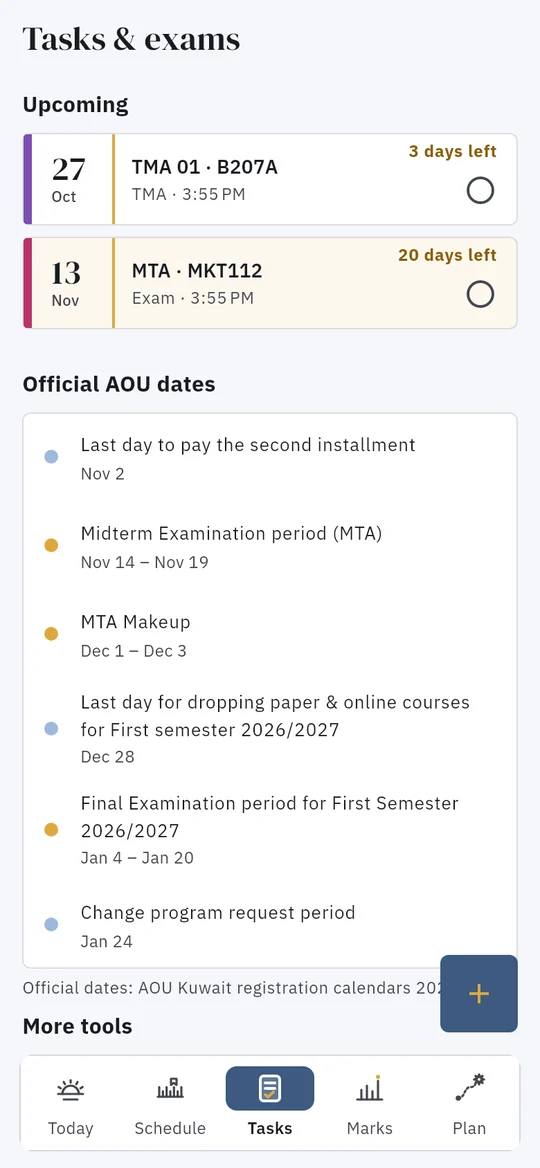
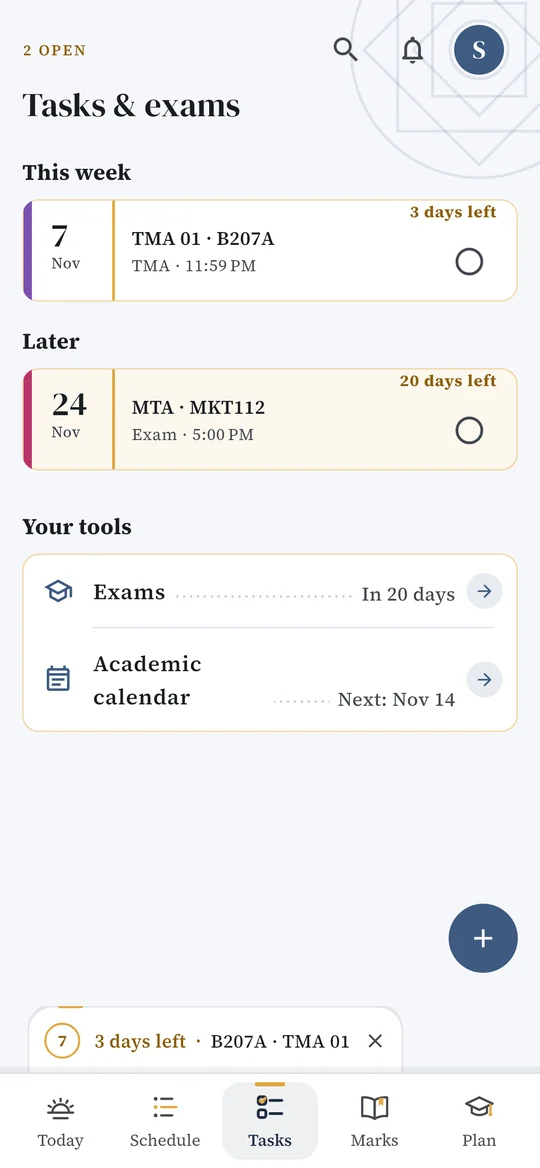
Add files via upload

diff --git a/index.html b/index.html
@@ -93,7 +93,7 @@ footer p{margin:0}
       <div>
         <h1>اعرف متى تتخرّج، <em>وشنو تسجّل</em> كل فصل.</h1>
         <svg class="ruler" viewBox="0 0 120 14" aria-hidden="true"><path d="M1 12H119" stroke="rgba(255,255,255,.35)" stroke-width="3" stroke-linecap="round"/><path d="M80 12H119" stroke="#E0A83F" stroke-width="3" stroke-linecap="round"/><g stroke="rgba(255,255,255,.6)"><path d="M1 10V1M18 10V6M35 10V4M52 10V6M69 10V1M86 10V6M103 10V4M119 10V1"/></g></svg>
-        <p>ارفع ملف سجلك من نظام الجامعة، وفصلي يرتّب لك المواد فصلاً بفصل حسب المتطلبات وحدود الساعات، لين التخرّج. ومعه يومك وجدولك ومهامك ودرجاتك في مكان واحد. مصمّم لطلاب الجامعات في الكويت والسعودية والأردن وعُمان والبحرين ولبنان ومصر.</p>
+        <p>أضف ملف سجلك من نظام الجامعة، وفصلي يقرأه على جوالك ويرتّب لك المواد فصلاً بفصل حسب المتطلبات وحدود الوحدات، لين التخرّج. ومعه يومك وجدولك ومهامك ودرجاتك في مكان واحد. مصمّم لطلاب الجامعات في الكويت والسعودية والأردن وعُمان والبحرين ولبنان ومصر.</p>
         <div class="cta">
           <a class="btn btn-gold" href="#join">انضم لتجربة التطبيق</a>
           <a class="btn btn-ghost" href="#features">شنو يسوي فصلي؟</a>
@@ -113,7 +113,7 @@ footer p{margin:0}
     <div class="tabs" tabindex="0" role="region" aria-label="شاشات فصلي">
       <figure><img class="shot" src="img/ar_1_today.webp" width="540" height="1168" loading="lazy" alt="شاشة اليوم"><figcaption><b>اليوم</b><span>المحاضرة القادمة، وهل حضرت؟، والمواعيد القريبة</span></figcaption></figure>
       <figure><img class="shot" src="img/ar_2_schedule.webp" width="540" height="1168" loading="lazy" alt="شاشة الجدول"><figcaption><b>الجدول</b><span>يومك وأسبوعك، وجدول رمضان</span></figcaption></figure>
-      <figure><img class="shot" src="img/ar_5_tasks.webp" width="540" height="1168" loading="lazy" alt="شاشة المهام والاختبارات"><figcaption><b>المهام</b><span>الواجبات والاختبارات ومواعيد الجامعة الرسمية</span></figcaption></figure>
+      <figure><img class="shot" src="img/ar_5_tasks.webp" width="540" height="1168" loading="lazy" alt="شاشة المهام والاختبارات"><figcaption><b>المهام</b><span>واجباتك واختباراتك، وكم يوم باقي</span></figcaption></figure>
       <figure><img class="shot" src="img/ar_4_marks.webp" width="540" height="1168" loading="lazy" alt="شاشة الدرجات"><figcaption><b>الدرجات</b><span>المعدل المتوقع، والمواد، والحضور والتركيز</span></figcaption></figure>
       <figure><img class="shot" src="img/ar_3_plan.webp" width="540" height="1168" loading="lazy" alt="شاشة الخطة"><figcaption><b>الخطة</b><span>هل أنت على المسار الصحيح؟ وشنو تسجّل بعدين</span></figcaption></figure>
     </div>
@@ -125,8 +125,8 @@ footer p{margin:0}
     <h2>ثلاث خطوات</h2>
     <p class="lead">تقدر تبدأ بدون ملفات وتدخّل موادك بيدك، بس الملف أسرع وأدق.</p>
     <ol class="steps">
-      <li><div><b>ارفع ملف سجلك (PDF)</b><br>من نظام الجامعة. ما نطلب كلمة السر حقك أبداً.</div></li>
-      <li><div><b>شوف وين وصلت</b><br>الساعات المنجزة، المواد الباقية، ومعدلك.</div></li>
+      <li><div><b>أضف ملف سجلك (PDF)</b><br>من نظام الجامعة، ويُقرأ على جوالك. ما نطلب كلمة السر حقك أبداً.</div></li>
+      <li><div><b>شوف وين وصلت</b><br>الوحدات المنجزة، المواد الباقية، ومعدلك.</div></li>
       <li><div><b>خذ خطة التخرّج</b><br>المسار الأسرع أو المتوازن أو الأخف، فصلاً بفصل، مع البدائل.</div></li>
     </ol>
   </div>
@@ -137,18 +137,19 @@ footer p{margin:0}
     <h2>شنو يسوي فصلي؟</h2>
     <p class="lead">كل الأدوات مجانية عند الإطلاق.</p>
     <div class="grid">
-      <div class="card"><h3>خطة التخرّج</h3><p>كل الفصول لين التخرّج، مع المتطلبات السابقة وحدود الساعات. ثلاث مسارات: الأسرع والمتوازن والأخف. احفظ لين ٣ خطط وقارن بينها، وشوفها حتى بدون إنترنت.</p></div>
-      <div class="card new"><span class="tag">جديد</span><h3>يومك في مسار واحد</h3><p>شاشة اليوم تبيّن المحاضرة القادمة وكم باقي عليها، وتسألك بعد المحاضرة: حضرت أو غبت؟ عشان يبقى عدّاد الغياب صحيح.</p></div>
-      <div class="card new"><span class="tag">جديد</span><h3>دفتر المهام</h3><p>كل واجب واختبار مع كم يوم باقي، وعلّمه «تم» بلمسة لما تخلّص. ومعه مواعيد الجامعة الرسمية: الأقساط والسحب والاختبارات.</p></div>
+      <div class="card"><h3>خطة التخرّج</h3><p>كل الفصول لين التخرّج، مع المتطلبات السابقة وحدود الوحدات. ثلاث مسارات: الأسرع والمتوازن والأخف. احفظ لين 3 خطط وقارن بينها، وشوفها حتى بدون إنترنت.</p></div>
+      <div class="card new"><span class="tag">جديد</span><h3>يومك في مسار واحد</h3><p>شاشة اليوم تبدأ بوقت محاضرتك القادمة بخط كبير، ومكانها ومدتها وغيابك وأقرب تسليم لها. وبالليل تعرض لك بكرة.</p></div>
+      <div class="card new"><span class="tag">جديد</span><h3>اسأل فيصل</h3><p>تحت خطتك وموعد تخرّجك، اضغط «اسأل فيصل ليش؟» وتوصلك شرح قصير بكلام بسيط.</p></div>
+      <div class="card"><h3>دفتر المهام</h3><p>كل واجب واختبار مع كم يوم باقي، وعلّمه «تم» بلمسة لما تخلّص. ومواعيد الجامعة الرسمية في التقويم: الأقساط والسحب والاختبارات.</p></div>
       <div class="card"><h3>استيراد بدل الكتابة</h3><p>ارفع كشف الدرجات أو نموذج التسجيل أو صورة الجدول أو خطة المادة (السيلابس)، وفصلي يقرأها وتراجعها قبل الحفظ.</p></div>
       <div class="card"><h3>كم تحتاج في الفاينل؟</h3><p>دخّل درجات الـTMA والـMTA وشوف الدرجة المطلوبة لكل تقدير، مع تنبيه إذا المادة في خطر قبل آخر يوم للسحب.</p></div>
-      <div class="card"><h3>المعدل ووضعك الأكاديمي</h3><p>حاسبة معدل مع هدف، ووضعك من الإنذارات الأكاديمية وكيف ترجع فوق ٢.٠٠، ومرتبة التخرّج ومنح التفوق.</p></div>
+      <div class="card"><h3>المعدل ووضعك الأكاديمي</h3><p>حاسبة معدل مع هدف، ووضعك من الإنذارات الأكاديمية وكيف ترجع فوق 2.00، ومرتبة التخرّج ومنح التفوق.</p></div>
       <div class="card"><h3>يوم الاختبار</h3><p>عدّ تنازلي، وقائمة باللي تحتاجه، وقاعدة التأخر عن الدخول. وإذا فاتك اختبار، يقولك شنو تسوي وآخر موعد للعذر، وكيف تتظلم على درجة.</p></div>
       <div class="card"><h3>مراجعة النهائيات</h3><p>اختار النهائيات اللي تبي لها خطة، وفصلي يقترح ساعات المذاكرة قبل كل اختبار. ما يجدول شي إلا إذا وافقت.</p></div>
       <div class="card"><h3>مؤقت التركيز</h3><p>جلسات مذاكرة بمؤقت، وسجل أسبوعي لساعات تركيزك لكل مادة.</p></div>
       <div class="card"><h3>تذكيرات على كيفك</h3><p>قبل المحاضرة ومواعيد التسليم والاختبارات، مع ساعات هدوء وجدول رمضان، وملخص أسبوعي صباح كل أحد.</p></div>
-      <div class="card"><h3>شكله على ذوقك</h3><p>فاتح أو داكن أو حسب الجوال، وأربعة ألوان. وتقدر تخفي أو ترتّب بطاقات شاشة اليوم.</p></div>
-      <div class="card"><h3>بياناتك عندك</h3><p>تشتغل بدون حساب، وبياناتك على جوالك. احفظ نسخة احتياطية في ملف وحدة، وأرجعها متى ما تبي.</p></div>
+      <div class="card"><h3>شكله على ذوقك</h3><p>فاتح أو داكن أو حسب الجوال، وخمسة ألوان للتطبيق كله. وتقدر تخفي أو ترتّب بطاقات شاشة اليوم.</p></div>
+      <div class="card"><h3>بياناتك عندك</h3><p>تشتغل بدون حساب، وبياناتك على جوالك. احفظ نسخة احتياطية في ملف واحد، وأرجعها متى ما تبي.</p></div>
     </div>
     <p style="color:var(--muted);margin:20px 0 0">عربي وإنجليزي، على الجوال والتابلت. وأدوات ثانية: تقرير تقدّم PDF، مواد من جامعة ثانية، قبل لا تسحب مادة، والتقويم الأكاديمي.</p>
   </div>
@@ -161,7 +162,7 @@ footer p{margin:0}
       <p>نبحث عن طلاب يجرّبون فصلي قبل نشره على Google Play. التجربة مجانية وتطوعية.</p>
       <ul>
         <li>هاتف أندرويد وبريد Gmail</li>
-        <li>تبقي التطبيق مثبتاً ١٤ يوماً (ما يلزم تستخدمه كل يوم)</li>
+        <li>تبقي التطبيق مثبتاً 14 يوماً (ما يلزم تستخدمه كل يوم)</li>
       </ul>
       <div class="cta"><a class="btn btn-gold" href="mailto:fasli.planner@gmail.com?subject=%D8%A3%D8%A8%D9%8A%20%D8%A3%D8%AC%D8%B1%D8%A8%20%D9%81%D8%B5%D9%84%D9%8A%20%2F%20Join%20the%20Fasli%20test&amp;body=Gmail%3A%20%0A%D9%86%D9%88%D8%B9%20%D8%A7%D9%84%D9%87%D8%A7%D8%AA%D9%81%20%2F%20Phone%3A%20%0A">راسلنا للانضمام</a><span class="small">أو أرسل بريد Gmail حقك إلى fasli.planner@gmail.com</span></div>
     </div>
@@ -171,23 +172,24 @@ footer p{margin:0}
 <section class="en" id="en" lang="en">
   <div class="in">
     <h2>Fasli – Uni Planner</h2>
-    <p><b>Know when you'll graduate, and what to register every semester.</b> Upload your record PDF from the university system and Fasli builds your route semester by semester, checking prerequisites and credit limits all the way to graduation. Your day, timetable, tasks and marks sit alongside it. Made for university students in Kuwait, Saudi Arabia, Jordan, Oman, Bahrain, Lebanon and Egypt.</p>
+    <p><b>Know when you'll graduate, and what to register every semester.</b> Add your record PDF from the university system: Fasli reads it on your phone and builds your route semester by semester, checking prerequisites and credit limits all the way to graduation. Your day, timetable, tasks and marks sit alongside it. Made for university students in Kuwait, Saudi Arabia, Jordan, Oman, Bahrain, Lebanon and Egypt.</p>
     <div class="tabs" tabindex="0" role="region" aria-label="Fasli screens">
       <figure><img class="shot" src="img/en_1_today.webp" width="540" height="1168" loading="lazy" alt="Today screen"><figcaption><b>Today</b><span>Next lecture, did you make it, what's coming up</span></figcaption></figure>
       <figure><img class="shot" src="img/en_2_schedule.webp" width="540" height="1168" loading="lazy" alt="Schedule screen"><figcaption><b>Schedule</b><span>Your day and week, plus Ramadan times</span></figcaption></figure>
-      <figure><img class="shot" src="img/en_5_tasks.webp" width="540" height="1168" loading="lazy" alt="Tasks screen"><figcaption><b>Tasks</b><span>TMAs, exams and official university dates</span></figcaption></figure>
+      <figure><img class="shot" src="img/en_5_tasks.webp" width="540" height="1168" loading="lazy" alt="Tasks screen"><figcaption><b>Tasks</b><span>Your TMAs and exams, with days left</span></figcaption></figure>
       <figure><img class="shot" src="img/en_4_marks.webp" width="540" height="1168" loading="lazy" alt="Marks screen"><figcaption><b>Marks</b><span>Projected GPA, courses, attendance, focus</span></figcaption></figure>
       <figure><img class="shot" src="img/en_3_plan.webp" width="540" height="1168" loading="lazy" alt="Plan screen"><figcaption><b>Plan</b><span>Am I on track, and what to take next</span></figcaption></figure>
     </div>
     <ul>
       <li>Graduation plan with fastest, balanced and lightest routes; save and compare up to 3, readable offline</li>
-      <li>Today: your next lecture with a countdown, and a quick "did you make it?" after class to keep absences right</li>
+      <li>Today: your next class time first, with where it is, how long it runs, your absences and what's due; in the evening it shows tomorrow</li>
+      <li>Ask Faisal: a short, plain explanation of your plan and graduation estimate</li>
       <li>A task ledger for TMAs and exams with days left, plus official university dates</li>
       <li>Import your transcript, registration form, a timetable screenshot or a course syllabus instead of typing</li>
       <li>Final-mark calculator (TMA + MTA), at-risk warnings before the drop deadline, GPA goal and academic standing</li>
       <li>Exam day help, missed-exam and appeal steps, an opt-in finals revision plan and a focus timer</li>
       <li>Reminders with quiet hours, Ramadan timetable and a Sunday weekly brief</li>
-      <li>Light, dark or follow the phone, four colours, and a backup file you keep</li>
+      <li>Light, dark or follow the phone, five colour themes, and a backup file you keep</li>
     </ul>
     <p>Every tool is free at launch, in English and Arabic, on phones and tablets. We never ask for your university password.</p>
     <p><b>Join the test:</b> we're looking for Android users with a Gmail address who can keep the app installed for 14 days. <a href="mailto:fasli.planner@gmail.com?subject=Join%20the%20Fasli%20test&amp;body=Gmail%3A%20%0APhone%3A%20%0A">Email us to join</a> (fasli.planner@gmail.com).</p>

diff --git a/privacy/index.html b/privacy/index.html
@@ -141,7 +141,7 @@
 <p>إذا سجّلت الدخول وفعّلت خيار الإعدادات &gt; الحساب &gt; "مشاركة مواعيد TMA مع الزملاء"، يشارك التطبيق تواريخ تسليم TMA التي تُدخلها، مع رمز المقرر والجامعة والفصل الدراسي، ليتمكن طلبة فصلي الآخرون في المقرر نفسه من إضافتها. لا يُشارك أي شيء آخر: لا اسمك ولا بريدك ولا عناوين المهام ولا الدرجات ولا أي شيء آخر في حسابك. تُحفظ التواريخ في Google Firebase تحت المعرّف العشوائي لحسابك، وهو معرّف قد يراه تقنيًا مستخدمو فصلي الآخرون المسجّلون لكنه لا يكشف هويتك. لا يرى الزملاء إلا عدد الطلبة الذين أدخلوا كل تاريخ، ولا يُقترح التاريخ إلا بعد أن يدخله طالبان على الأقل. إيقاف الخيار أو حذف حسابك يحذف التواريخ التي شاركتها.</p>
 <h3>خطة التخرج واستيراد الملفات</h3>
 <p>إذا اخترت استيراد نموذج التسجيل أو الخطة الدراسية أو كشف الدرجات أو توصيف المقرر بصيغة PDF، يُرسل الملف الذي تختاره عبر اتصال مشفّر إلى خادمنا على Google Cloud (في الدوحة، قطر). يُستخدم فقط لقراءة مقرراتك أو درجاتك أو مواعيد التوصيف، ثم يُتخلَّص منه فور إرسال النتيجة. يُحذف اسمك ويُستبدل رقمك الجامعي برمز أحادي الاتجاه قبل إعادة النتيجة إلى هاتفك.</p>
-<p>في كل مرة تتحقق فيها من خطة تخرجك أو يوم التسجيل أو "أسحب المقرر أم أبقيه؟"، يرسل التطبيق سجلك الأكاديمي (رموز المقررات والدرجات والساعات، دون اسمك) إلى الخادم نفسه لحساب الإجابة. لا يحفظ الخادم ملفاتك ولا سجلك، ولا تحتوي سجلاته على درجات أو أسماء ملفات أو معرّفات حسابات بصيغة مقروءة. يصل التطبيق فقط إلى الملفات أو الصور التي تختارها، ولا يتصفح معرض الصور.</p>
+<p>في كل مرة تتحقق فيها من خطة تخرجك أو يوم التسجيل أو "أسحب المقرر أم أبقيه؟"، يرسل التطبيق سجلك الأكاديمي (رموز المقررات والدرجات والوحدات، دون اسمك) إلى الخادم نفسه لحساب الإجابة. لا يحفظ الخادم ملفاتك ولا سجلك، ولا تحتوي سجلاته على درجات أو أسماء ملفات أو معرّفات حسابات بصيغة مقروءة. يصل التطبيق فقط إلى الملفات أو الصور التي تختارها، ولا يتصفح معرض الصور.</p>
 <p>قبل إرسال ملف أو سجلك لأول مرة، يعرض التطبيق ما سيُرسل وإلى أين، ويطلب موافقتك. إذا اخترت "ليس الآن" فلا يُرسل شيء، ويمكنك الاستمرار في استخدام كل ما يعمل على هاتفك. ولطلاب فرع مصر، لا تتوفر بعد قراءة الملفات والتخطيط على خادمنا، فلا يغادر سجلهم الهاتف.</p>
 <h3>التحقق من أن التطبيق أصلي</h3>
 <p>حتى لا يستخدم خادمنا إلا تطبيق فصلي الحقيقي، يطلب التطبيق من Google Play Integrity، عبر Firebase App Check من Google، التأكد من أنه التطبيق الأصلي غير المعدّل المثبّت من Google Play. يرسل هذا التحقق معلومات فنية عن التطبيق والجهاز إلى Google، ولا يتضمن اسمك أو بريدك أو أي شيء أدخلته.</p>
